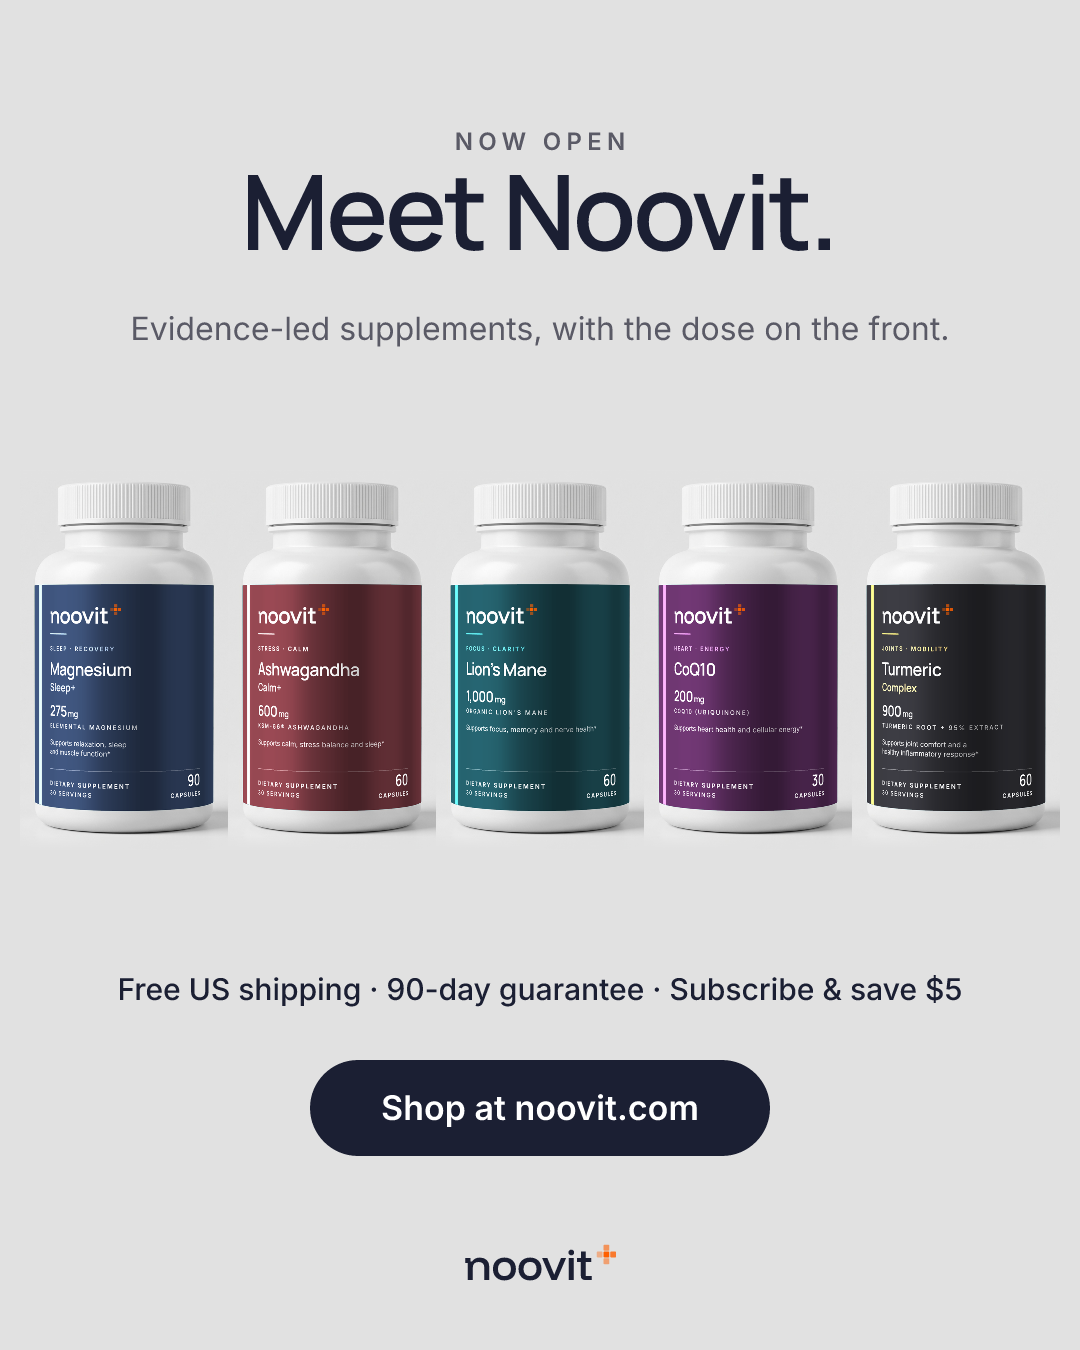
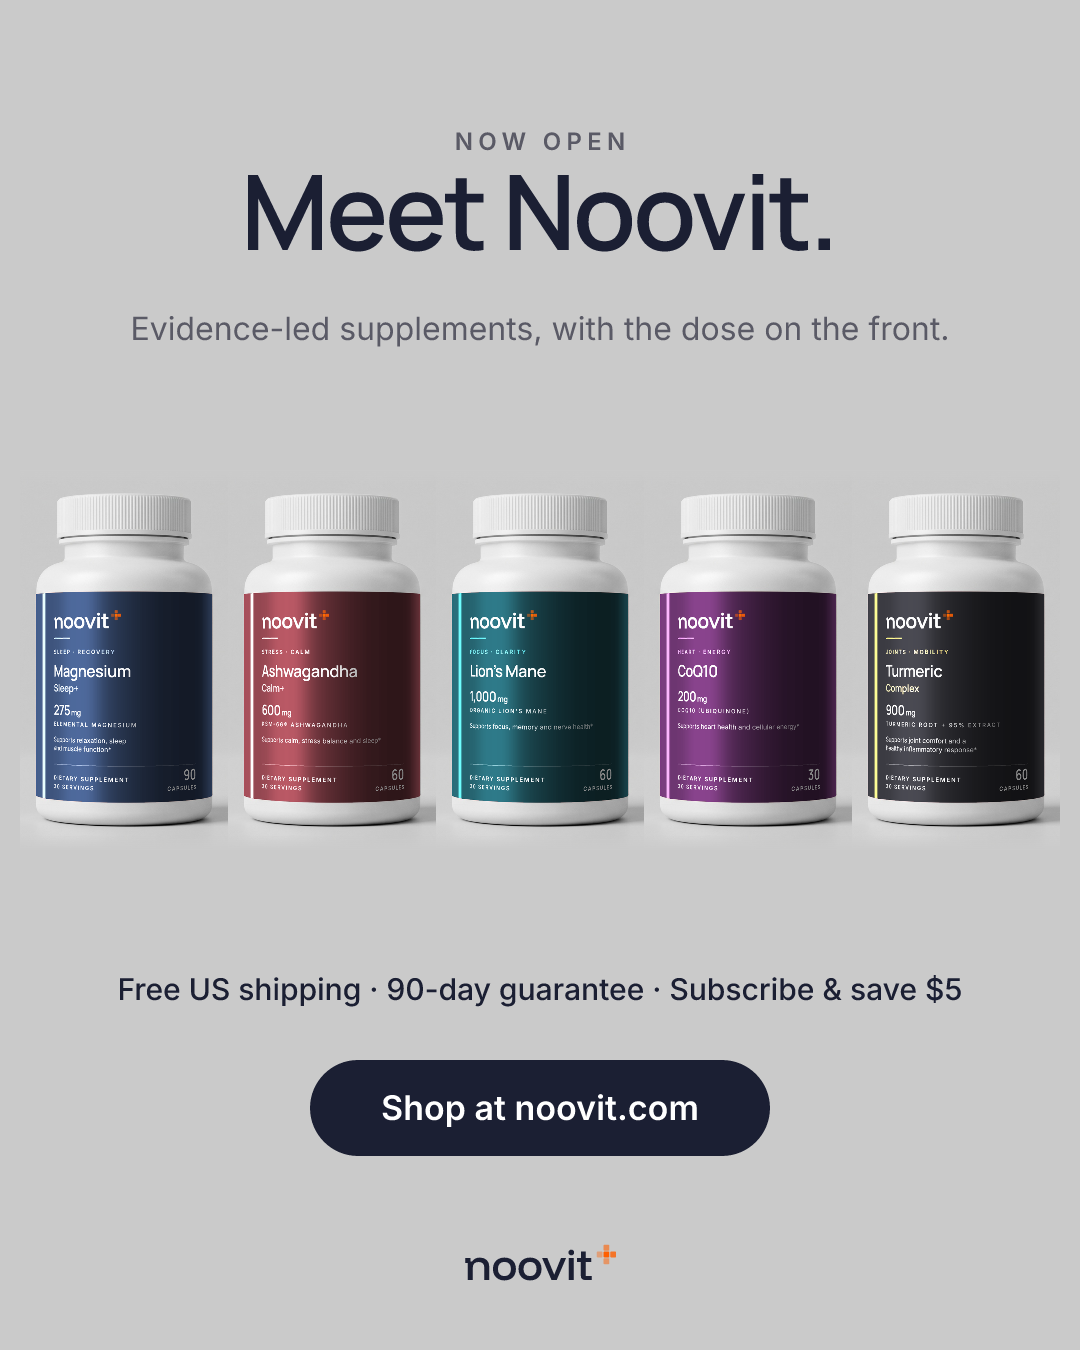
Studio photos: switch to the template with the soft natural shadow; keep type readable on the shaded side
Claude-Session: https://claude.ai/code/session_01AgHwmMXyw3TzvCrzNnVa8R

Changed region(s): [[0.0, 0.3422, 1.0, 0.6222]]

diff --git a/lib/labels/studio.ts b/lib/labels/studio.ts
@@ -7,14 +7,15 @@ import { Product } from '@/types';
 import { FRONT, frontLabel, labelPaper } from './svg';
 
 // Studio photo (16 Nov, owner's pick): a photoreal studio shot of our white bottle (assets/mockups/studio-bottle.jpg,
-// 1493 × 2000, soft grey backdrop, ribbed cap) with our label wrapped onto it. The template's own label area is
+// 2000 × 1493, soft grey backdrop, ribbed cap) with our label wrapped onto it. The template's own label area is
 // measured, then replaced pixel by pixel: each pixel maps to a point on the flat label (cylinder unwrap), and the
 // template's light and shade are carried over from its label (per-column and per-row medians, so its printed text
 // doesn't leak through). The result keeps the photo's real lighting with the approved label artwork exactly.
 const FILE = path.join(process.cwd(), 'assets/mockups/studio-bottle.jpg');
 const SCALE = 6; // label art render resolution, px per label unit
-const U0 = -40, U1 = FRONT.w + 40;
-const HIGHLIGHT = 0.6; // share of the template's key-light highlight kept (deep label colours bloom more than its teal) // label units rendered (front panel plus the wrap round the sides)
+const U0 = -40, U1 = FRONT.w + 40; // label units rendered (front panel plus the wrap round the sides)
+const HIGHLIGHT = 0.6; // share of the template's key-light highlight kept (deep label colours bloom more than its own)
+const SHADOW = 0.7; // share of the template's fall-off into shadow kept, so type on the dark side stays readable
 
 type Template = {
   W: number; H: number; data: Buffer;
@@ -125,7 +126,7 @@ export async function studioPhotoRaw(p: Product) {
       const c = sample(u, v);
       // The template's light scales the label's colours, as real light does on a matte print (hue kept, brighter or
       // darker). The vertical profile is flat on this photo, so only the across-the-bottle light is used.
-      const k = kx > 1 ? 1 + (kx - 1) * HIGHLIGHT : kx;
+      const k = kx > 1 ? 1 + (kx - 1) * HIGHLIGHT : 1 - (1 - kx) * SHADOW;
       const lit = c.map((ch) => Math.min(255, ch * k));
       // Anti-alias the top and bottom edges against the template (which shows the white bottle beyond the label).
       const cover = Math.min(1, y + 1 - top, bot - y);
@@ -144,7 +145,7 @@ export async function studioPhotoPng(p: Product, size = 1000, crop: 'front' | 'c
   const box =
     crop === 'closeup'
       ? (() => { const side = Math.round((r.box.x1 - r.box.x0) * 1.12); const cy = (t.top[Math.round(t.cx)] + t.bot[Math.round(t.cx)]) / 2; return { left: Math.round(cxp - side / 2), top: Math.round(cy - side / 2), side }; })()
-      : (() => { const side = Math.round(r.height * 0.74); return { left: Math.round(cxp - side / 2), top: Math.round(r.height * 0.145), side }; })();
+      : (() => { const side = Math.round(r.height * 0.87); return { left: Math.round(cxp - side / 2), top: Math.round(r.height * 0.075), side }; })();
   return sharp(r.data, { raw: { width: r.width, height: r.height, channels: 3 } })
     .extract({ left: Math.max(0, box.left), top: Math.max(0, box.top), width: box.side, height: box.side })
     .resize(size, size)

diff --git a/lib/labels/svg.ts b/lib/labels/svg.ts
@@ -15,7 +15,7 @@ import { LEGAL_NAME } from '@/lib/site';
 export type FontMode = 'web' | 'print';
 
 // Bump when the photo mockup (lib/labels/photo.ts) changes, so cached product image URLs refresh.
-export const MOCKUP_VERSION = 'studio-v2'; // studio-v1 (16 Nov): photoreal studio bottle (lib/labels/studio.ts); was photo-v14 // v12 (14 Nov): elegant dark label; v13: studio lighting; v14: label edges curve round the bottle
+export const MOCKUP_VERSION = 'studio-v3'; // studio-v1 (16 Nov): photoreal studio bottle (lib/labels/studio.ts); was photo-v14 // v12 (14 Nov): elegant dark label; v13: studio lighting; v14: label edges curve round the bottle
 
 const NAVY = '#14213d';
 const INK = '#4b5563';

diff --git a/CLAUDE.md b/CLAUDE.md
@@ -58,9 +58,9 @@ Read this first. It is the standing context for any session working on this repo
   (`ballStick`, atoms as rounded tiles, CPK colours O red / N blue / P orange), only rotated or scaled, never redrawn;
   facts from NIH ODS or peer-reviewed reviews; schematic biology marked "not to scale".
 - **The cross:** only the five-tile mosaic cross, everywhere (logo, favicon, loader, brand name in text, emails, advisor icon).
-- **Product images (16 Nov): photoreal studio shot** `assets/mockups/studio-bottle.jpg` (owner-supplied render, grey studio,
-  ribbed cap) with our label mapped on by `lib/labels/studio.ts` (cylinder unwrap; the template's light is measured from its
-  label background and applied to ours, `HIGHLIGHT` 0.6). Used for the front, the label close-up and inside the gallery
+- **Product images (16 Nov): photoreal studio shot** `assets/mockups/studio-bottle.jpg` (owner-supplied render, 2000 × 1493, grey studio,
+  ribbed cap, soft natural shadow; the portrait one had a hard streak shadow) with our label mapped on by `lib/labels/studio.ts` (cylinder unwrap; the template's light is measured from its
+  label background and applied to ours, `HIGHLIGHT` 0.6, `SHADOW` 0.7). Used for the front, the label close-up and inside the gallery
   images (`lib/labels/png.ts`). Older Supliful-photo path (`lib/labels/photo.ts`, `assets/mockups/bottle-photo.jpg`) still
   exists for the line-up mockups. Framed tight (~85% height). Gallery: front, "In every serving" fact image,
   dose comparison (Mg, CoQ10), label close-up, Supplement Facts. Bump `MOCKUP_VERSION` when images change.
